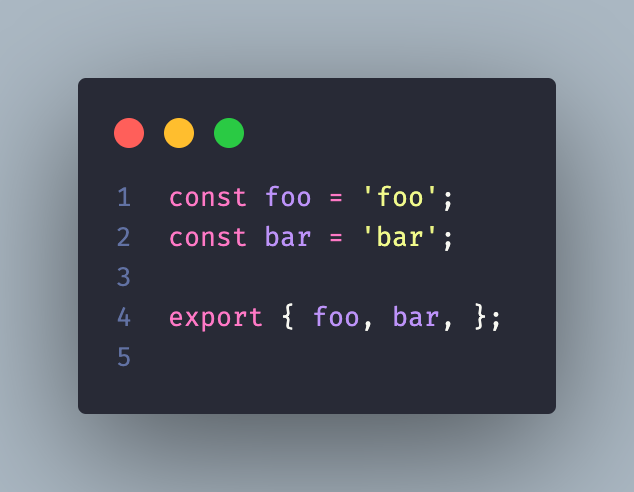
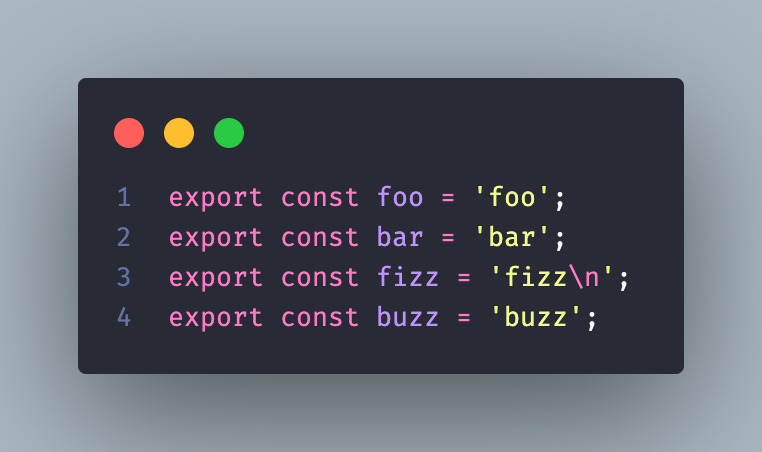
Update named export with \n before and after

diff --git a/README.md b/README.md
@@ -12,8 +12,10 @@
 
 ### Before
   - ```js
-    export const foo = 'foo'
-    export const bar = 'bar'
+    export const foo = 'foo';
+    export const bar = 'bar';
+    export const fizz = 'fizz\n';
+    export const buzz = 'buzz';
     ```
   - ```js
     export default () => { // file name: HelloComponent.js
